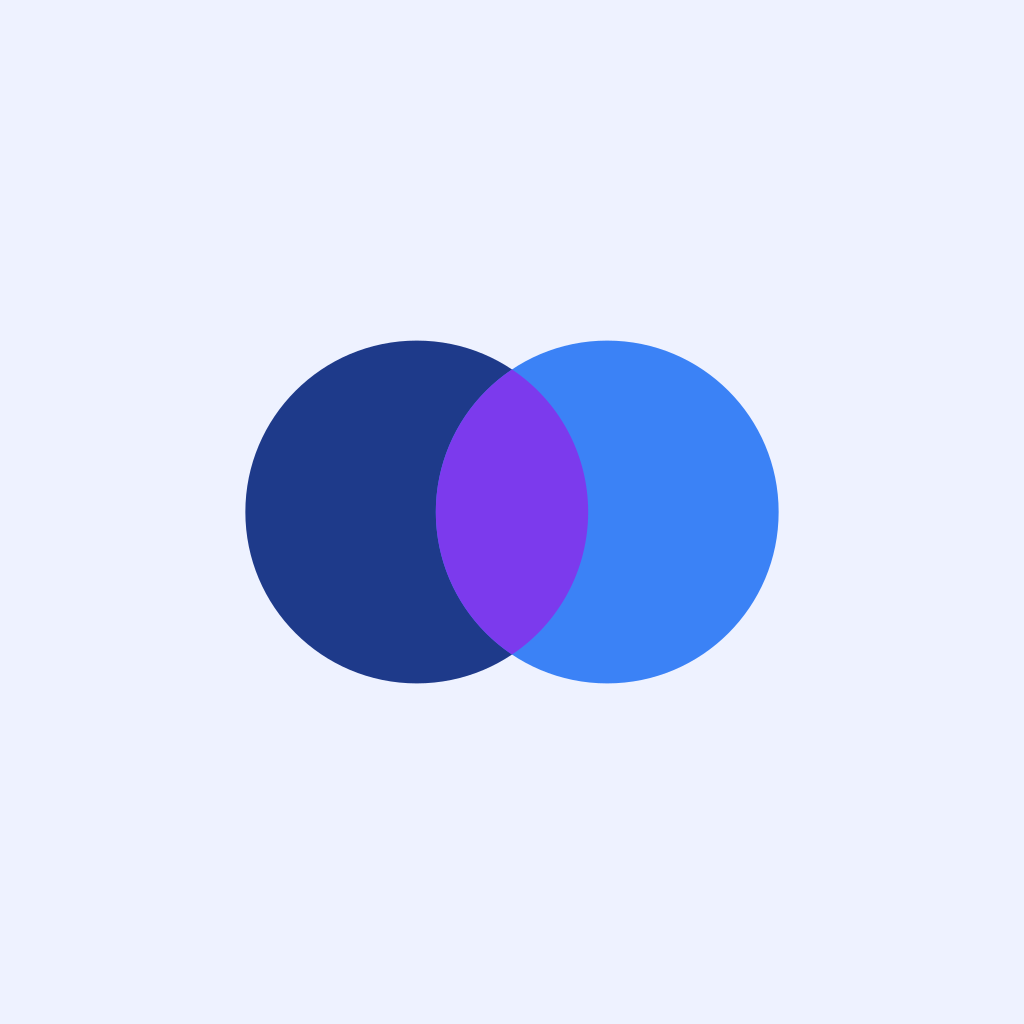
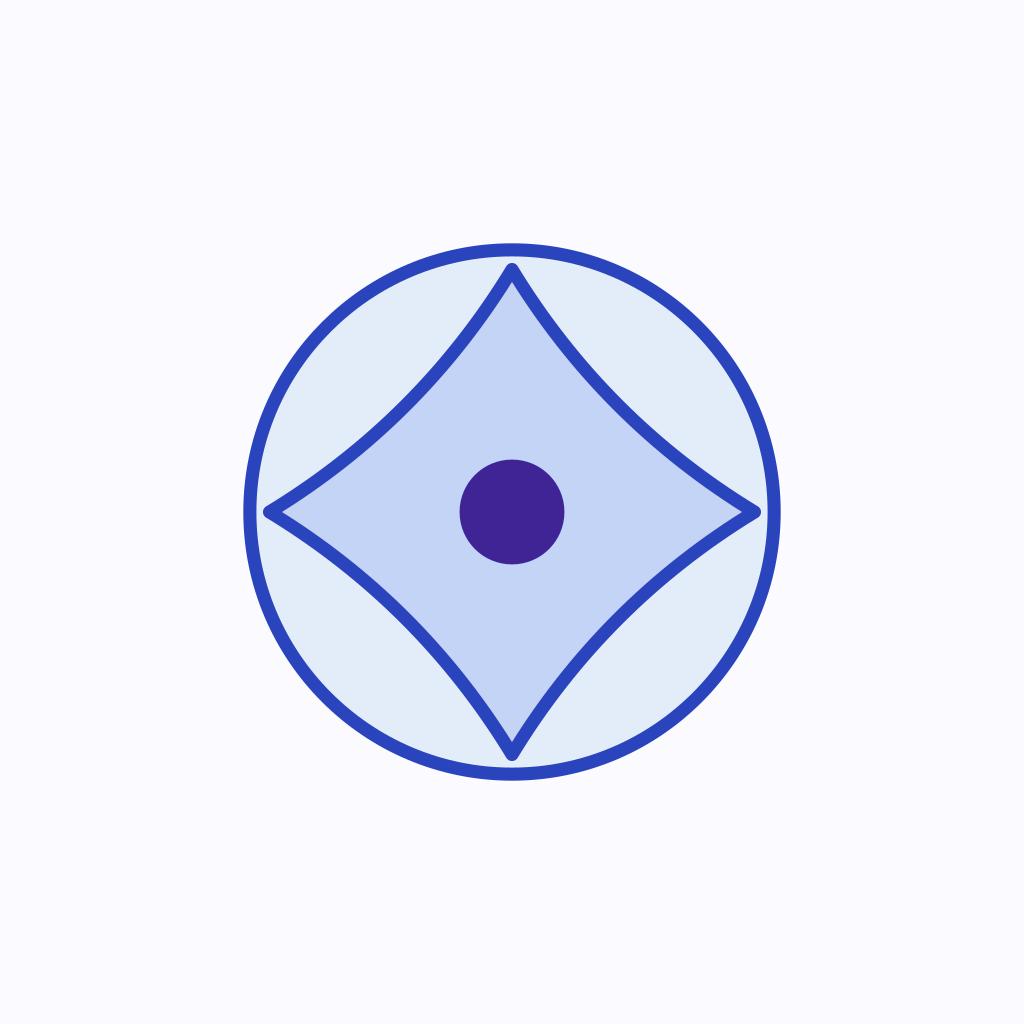
Use the mark Raunak actually sent
He sent artwork and said "this logo a bit better". I read that as the
existing icon plus a request to improve it, threw the whole thing out,
and shipped two overlapping circles of my own design. Twice wrong: the
image was a NEW mark he had drawn, not the old one, and even if it had
been the old one, "a bit better" means refine, not replace.

This is the second time I have done this to him. The standing note from
the dark-UI episode says it plainly: a restyle that changes the identity
reads as "you just changed it" and loses him, and "better" means craft,
not a different idea. I had that note and did it anyway.

So the mark is his: a four-point star in a ring with a violet centre.
Measured off the artwork — brighter blue line than the old icon, chunkier
star reaching nearly to the ring, and the centre dot violet rather than
navy, which were exactly the three things he had changed and I had not
noticed.

The colours are literals, not theme tokens, on purpose. A mark that
shifts when someone retunes the palette is not a mark. It carries its own
light disc, so it reads on white surfaces and on the brand indigo of the
auth screens without a second palette, which also lets Logo drop the
tone prop I added.

Regenerated icon, adaptive-icon, splash and notification-icon from one
source. Checked at 60px and against the indigo splash ground.

Changed region(s): [[0.2188, 0.2188, 0.7812, 0.7812]]

diff --git a/mobile/src/components/Logo.tsx b/mobile/src/components/Logo.tsx
@@ -1,52 +1,38 @@
 import Svg, { Circle, Path } from "react-native-svg";
-import { colors } from "@/lib/theme";
 
 /**
- * Two overlapping circles, with the overlap in the accent.
+ * The Melange mark, as Raunak drew it: a four-point star inside a ring, with a
+ * violet centre.
  *
- * The previous mark was a four-point sparkle inside a circle inside a square,
- * with a dot in the middle. Three nested shapes that meant nothing, and the
- * sparkle is the single most overused symbol in software right now: it reads
- * as a generic AI feature, which is the opposite of what this app is. It also
- * failed at tab-bar size, where the thin strokes dissolved into pale blue mush.
+ * It is deliberately NOT derived from the theme tokens. These are the exact
+ * colours of the artwork he sent, and a mark that shifts when someone retunes
+ * the palette is not a mark. The one place they appear is here.
  *
- * Two circles say what the product is. Melange means a mixture, and the thing
- * worth having is what two people make together, not either of them alone. The
- * overlap is violet rather than a blend of the two blues on purpose: a
- * collaboration produces a third thing neither one would have made.
- *
- * No strokes anywhere, so it holds together down to about sixteen points.
+ * It carries its own light disc, so it reads on the white app surfaces and on
+ * the brand indigo of the auth screens without needing a second palette.
  */
-const R = 27;
-const C1 = 35;
-const C2 = 65;
-const DY = Math.sqrt(R * R - ((C2 - C1) / 2) ** 2);
-const LENS = `M50 ${50 - DY} A${R} ${R} 0 0 1 50 ${50 + DY} A${R} ${R} 0 0 1 50 ${50 - DY} Z`;
+const R = 37;
+const I = 14;
+const STAR =
+  `M50,${50 - R} Q${50 + I},${50 - I} ${50 + R},50 ` +
+  `Q${50 + I},${50 + I} 50,${50 + R} ` +
+  `Q${50 - I},${50 + I} ${50 - R},50 ` +
+  `Q${50 - I},${50 - I} 50,${50 - R} Z`;
 
-/**
- * Two palettes, because the auth screens sit on the brand indigo and the deep
- * circle would vanish into it. On that ground the values invert and the
- * overlap lifts to violet-400, which is the lightest thing in the mark rather
- * than the darkest.
- */
-const TONES = {
-  brand: { left: colors.brand, right: colors.brandText, overlap: colors.accent },
-  onBrand: { left: colors.onBrandMuted, right: colors.white, overlap: "#a78bfa" },
-} as const;
+const LINE = "#2a44bd";
+const RING = "#e3edfa";
+const FILL = "#c4d4f6";
+const CENTRE = "#3f2496";
 
-export function Logo({
-  size = 36,
-  tone = "brand",
-}: {
-  size?: number;
-  tone?: keyof typeof TONES;
-}) {
-  const c = TONES[tone];
+export function Logo({ size = 36 }: { size?: number }) {
+  // Strokes are given in viewBox units, so they scale with `size` rather than
+  // thinning out as the mark grows.
+  const sw = 2;
   return (
     <Svg width={size} height={size} viewBox="0 0 100 100">
-      <Circle cx={C1} cy={50} r={R} fill={c.left} />
-      <Circle cx={C2} cy={50} r={R} fill={c.right} />
-      <Path d={LENS} fill={c.overlap} />
+      <Circle cx={50} cy={50} r={40} fill={RING} stroke={LINE} strokeWidth={sw} />
+      <Path d={STAR} fill={FILL} stroke={LINE} strokeWidth={sw} strokeLinejoin="round" />
+      <Circle cx={50} cy={50} r={8} fill={CENTRE} />
     </Svg>
   );
 }

diff --git a/mobile/app/(auth)/login.tsx b/mobile/app/(auth)/login.tsx
@@ -49,7 +49,7 @@ export default function Login() {
           </View>
 
           <View style={styles.header}>
-            <Logo size={64} tone="onBrand" />
+            <Logo size={64} />
             <Text style={styles.title}>Welcome back</Text>
             <Text style={styles.subtitle}>Sign in to see who picked you.</Text>
           </View>

diff --git a/mobile/app/(auth)/signup.tsx b/mobile/app/(auth)/signup.tsx
@@ -111,7 +111,7 @@ export default function Signup() {
           </View>
 
           <View style={styles.header}>
-            <Logo size={56} tone="onBrand" />
+            <Logo size={56} />
             <Text style={styles.title}>Create your profile</Text>
             <Text style={styles.subtitle}>Only takes a minute.</Text>
           </View>

diff --git a/mobile/app/(auth)/forgot-password.tsx b/mobile/app/(auth)/forgot-password.tsx
@@ -90,7 +90,7 @@ export default function ForgotPassword() {
           </View>
 
           <View style={styles.header}>
-            <Logo size={64} tone="onBrand" />
+            <Logo size={64} />
             <Text style={styles.title}>Reset your password</Text>
             <Text style={styles.subtitle}>
               {sent
